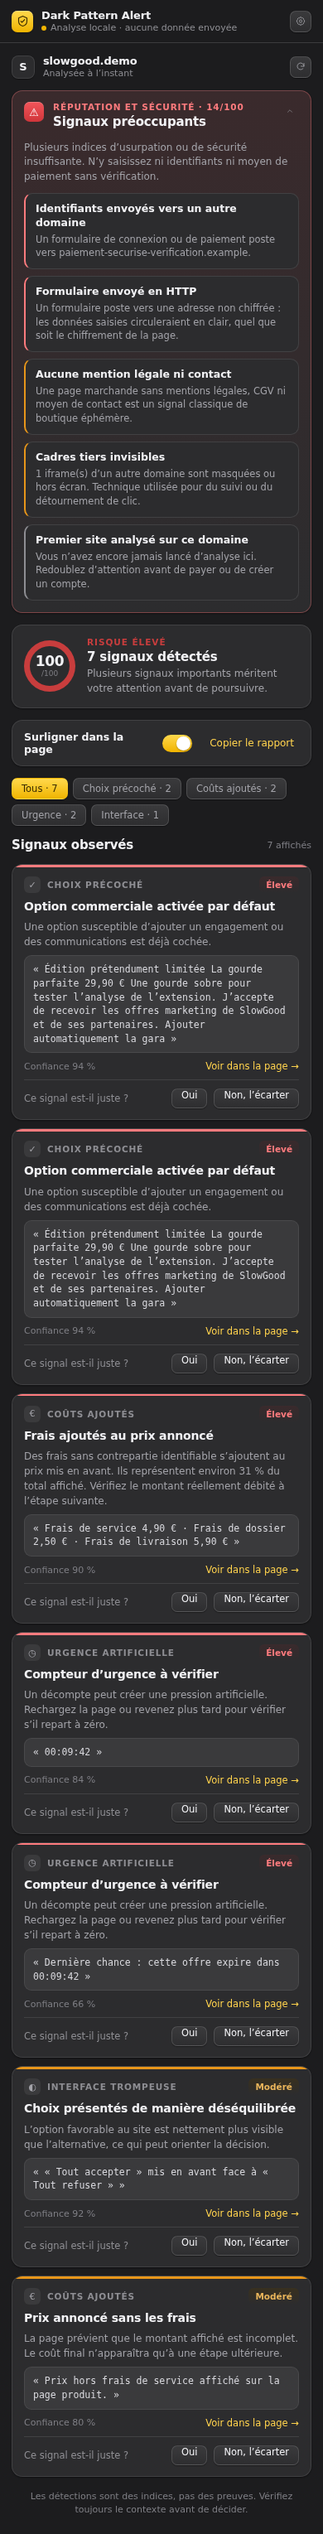
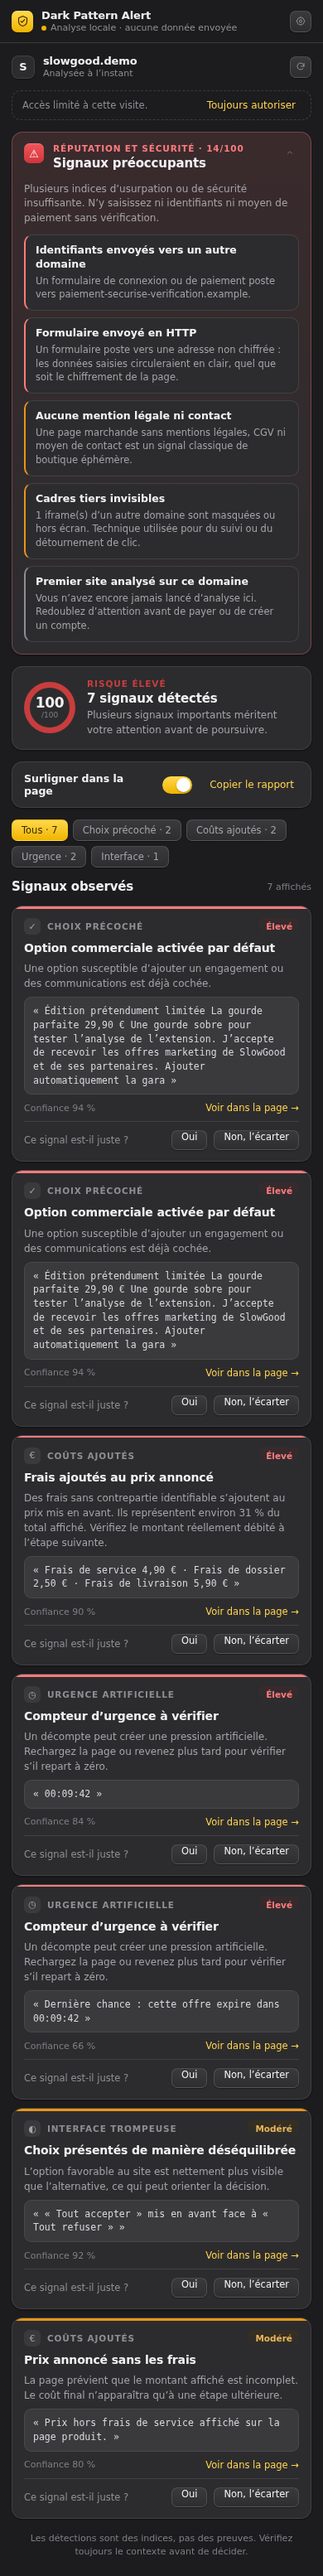
docs: régénérer les captures avec la ligne d'accès temporaire
Le rapport porte désormais l'état ordinaire — accès obtenu par le clic sur
l'icône, site pas encore autorisé durablement — que les captures ignoraient.
Le libellé est raccourci pour tenir sur une ligne dans le panneau : « Accès
limité à cette visite. » et « Toujours autoriser ».

Captures claires et sombres, visuels de la fiche et archive régénérés.

Changed region(s): [[0.0308, 0.0, 0.9846, 0.9938], [0.5538, 0.9627, 0.6154, 0.9938], [0.3077, 0.9627, 0.3385, 0.9938]]

diff --git a/sidepanel.html b/sidepanel.html
@@ -114,8 +114,8 @@
         </div>
 
         <p class="access-note" id="accessNote" hidden>
-          <span>Accès accordé pour cette visite seulement.</span>
-          <button class="text-button" id="grantSiteButton" type="button">Toujours autoriser ce site</button>
+          <span>Accès limité à cette visite.</span>
+          <button class="text-button" id="grantSiteButton" type="button">Toujours autoriser</button>
         </p>
 
         <section class="trust-card" id="trustCard" data-level="trusted" aria-labelledby="trustTitle" hidden>

diff --git a/store/LISTING.md b/store/LISTING.md
@@ -143,7 +143,7 @@ L’extension lit le contenu de l’onglet actif uniquement après que l’utili
 ### Justification des permissions d’hôte facultatives (`http://*/*`, `https://*/*`)
 
 ```
-Ces permissions ne sont pas demandées à l’installation : elles sont déclarées en optional_host_permissions et ne sont accordées que si l’utilisateur clique lui-même sur « Toujours autoriser ce site » ou « Autoriser sur tous les sites ». L’accès obtenu par activeTab retombe à chaque navigation, ce qui oblige sinon à cliquer sur l’icône avant chaque page analysée. L’autorisation ne change ni la nature ni le moment de la lecture : l’analyse ne démarre qu’à la demande explicite de l’utilisateur, rien n’est observé en arrière-plan et aucune donnée n’est transmise.
+Ces permissions ne sont pas demandées à l’installation : elles sont déclarées en optional_host_permissions et ne sont accordées que si l’utilisateur clique lui-même sur « Toujours autoriser » ou « Autoriser sur tous les sites ». L’accès obtenu par activeTab retombe à chaque navigation, ce qui oblige sinon à cliquer sur l’icône avant chaque page analysée. L’autorisation ne change ni la nature ni le moment de la lecture : l’analyse ne démarre qu’à la demande explicite de l’utilisateur, rien n’est observé en arrière-plan et aucune donnée n’est transmise.
 ```
 
 ### Justification de `scripting`

diff --git a/store/PUBLISHING.md b/store/PUBLISHING.md
@@ -64,7 +64,8 @@ Dans l’ordre des onglets, avec `LISTING.md` ouvert à côté :
 
 1. **Store listing** — nom, résumé, description, catégorie, langue, puis les
    visuels du tableau de la section 2.
-2. **Privacy** — objectif unique, les quatre justifications de permission, la
+2. **Privacy** — objectif unique, les cinq justifications de permission — dont
+   celle des permissions d’hôte facultatives, champ apparu avec la `0.1.1` —, la
    déclaration d’absence de code distant, les cases d’utilisation des données,
    les trois attestations, l’URL de la politique de confidentialité.
 3. **Distribution** — visibilité, régions, gratuité.
